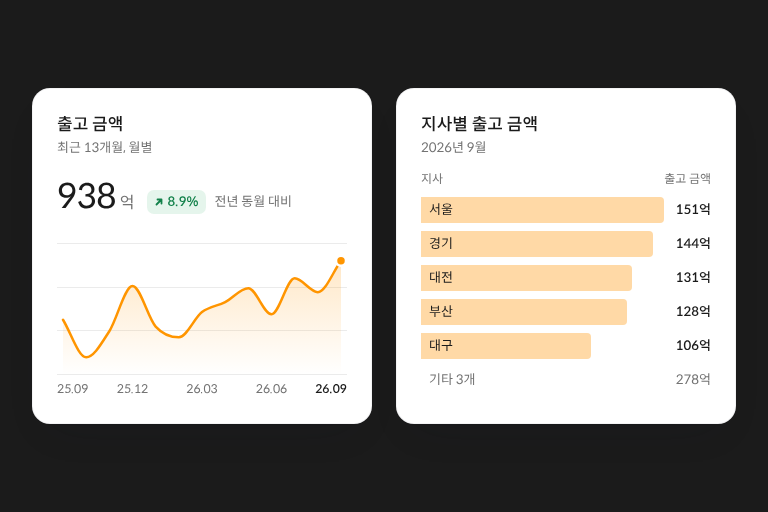
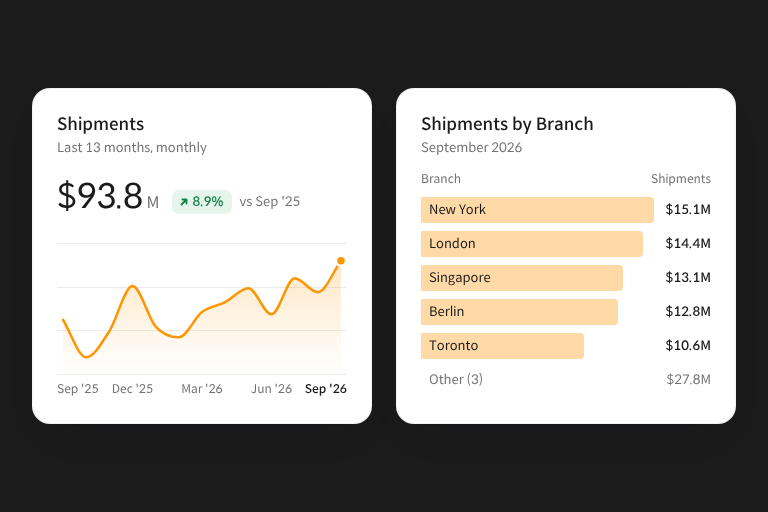
Name the home files after the domains, flip the hero gradient, new Styles panel
- www.vizney.com is English and kr.vizney.com is Korean, so the English home is
  now home.html with plain image names, and the Korean one home.kr.html with -kr
  images. home.js picks the file from data-lang (en → home.html, ko → home.kr.html).
- Hero: the top is the navigation bar's #1b1b1b and it lightens toward the
  bottom, with the accent glow rising from the bottom centre.
- Styles panel: parts that show each style, instead of three page tops: the
  Netflix Top 10, the Anthropic chart and the Notion table.
- Featured posts: the fallback lists hold only Tips & Tricks and Knowledge Base
  posts, matching the /featured/ filter now set in routes.yaml on both sites.

Claude-Session: https://claude.ai/code/session_01F12JZhiYwcuRupDYjYGtK6

diff --git a/home/home.kr.html b/home/home.kr.html
@@ -16,21 +16,21 @@
 <p class="vz-sub">Vizney가 일하는 기준은 누구나 가져다 쓸 수 있도록 공개합니다.</p>
 <div class="vz-cards">
 <a class="vz-card" href="/chart-guide/">
-<img src="https://git.vizney.com/home/img/chart-guide.png" width="768" height="512" alt="같은 두 값을 축을 90에서 자른 막대와 0에서 시작한 막대로 비교한 그림">
+<img src="https://git.vizney.com/home/img/chart-guide-kr.png" width="768" height="512" alt="같은 두 값을 축을 90에서 자른 막대와 0에서 시작한 막대로 비교한 그림">
 <span class="vz-label">기준</span>
 <span class="vz-title">Chart Guide</span>
 <span class="vz-desc">차트를 언제, 어떻게 써야 하는지에 대한 판단 기준. 예시는 태블로로 설명하지만 다른 도구에도 적용됩니다.</span>
 <span class="vz-more">차트 가이드 보기 →</span>
 </a>
 <a class="vz-card" href="https://blocks.vizney.com/ko/">
-<img src="https://git.vizney.com/home/img/blocks.png" width="768" height="512" alt="Vizney Blocks의 KPI 카드와 순위 막대 카드">
+<img src="https://git.vizney.com/home/img/blocks-kr.png" width="768" height="512" alt="Vizney Blocks의 KPI 카드와 순위 막대 카드">
 <span class="vz-label">부품</span>
 <span class="vz-title">Blocks</span>
 <span class="vz-desc">판단 기준을 코드에 담은 HTML 대시보드 카드. 복사해서 데이터만 바꾸면 계산과 강조가 기준대로 들어갑니다.</span>
 <span class="vz-more">카드 보기 →</span>
 </a>
 <a class="vz-card" href="https://styles.vizney.com/?lang=ko">
-<img src="https://git.vizney.com/home/img/styles.png" width="768" height="512" alt="Vizney Styles 카탈로그의 브랜드별 대시보드 화면 세 장">
+<img src="https://git.vizney.com/home/img/styles-kr.png" width="768" height="512" alt="Vizney Styles 샘플 세 가지의 일부: 큰 외곽선 순위 숫자가 있는 Netflix 스타일 Top 10, 아이보리 바탕의 Anthropic 스타일 라인 차트, 색 태그가 들어간 Notion 스타일 표">
 <span class="vz-label">화면</span>
 <span class="vz-title">Styles</span>
 <span class="vz-desc">기업 브랜드에 맞춘 대시보드 명세와 Tableau·Power BI 파일. 회사용 패키지는 비공개로 만들어 드립니다.</span>
@@ -47,12 +47,12 @@
 <a class="vz-more" href="/blog/">전체 글 보기 →</a>
 </div>
 <div class="vz-posts" data-featured>
-<a class="vz-post" href="/style-notion/"><span class="vz-label">Styles</span><span class="vz-post-title">Notion 대시보드 스타일 — 모노톤, 블록, 단정함</span></a>
 <a class="vz-post" href="/screenshot-vs-pdf-long-web-page-ai/"><span class="vz-label">Tips &amp; Tricks</span><span class="vz-post-title">긴 웹페이지를 AI에 넣을 때 스크린샷과 PDF 고르는 기준 (feat. Fullcut)</span></a>
 <a class="vz-post" href="/claude-privacy-settings-for-work/"><span class="vz-label">Knowledge Base</span><span class="vz-post-title">회사에서 클로드(Claude)를 쓸 때 확인할 데이터 설정</span></a>
-<a class="vz-post" href="/style-anthropic/"><span class="vz-label">Styles</span><span class="vz-post-title">Anthropic 대시보드 스타일 — 아이보리, 에디토리얼, 고요함</span></a>
 <a class="vz-post" href="/claude-dashboards-data-security/"><span class="vz-label">Knowledge Base</span><span class="vz-post-title">Claude 대시보드 보안: 회사 데이터는 어디까지 넘어갈까</span></a>
 <a class="vz-post" href="/analyzing-tableau-workbooks-with-fewer-tokens/"><span class="vz-label">Tips &amp; Tricks</span><span class="vz-post-title">태블로 워크북 분석에 드는 토큰 줄이기 (feat. Claude)</span></a>
+<a class="vz-post" href="/tableau-licensing-faq-sharing-dashboards/"><span class="vz-label">Knowledge Base</span><span class="vz-post-title">태블로 라이선스 약관으로 보는 대시보드 공유 FAQ</span></a>
+<a class="vz-post" href="/connect-tableau-cloud-mcp-to-claude/"><span class="vz-label">Knowledge Base</span><span class="vz-post-title">클로드(Claude)에 태블로 클라우드(Tableau Cloud) MCP 연동하기</span></a>
 </div>
 </div>
 </section>

diff --git a/home/home.html b/home/home.html
@@ -16,21 +16,21 @@
 <p class="vz-sub">The standards Vizney works by are open for anyone to use.</p>
 <div class="vz-cards">
 <a class="vz-card" href="/chart-guide/">
-<img src="https://git.vizney.com/home/img/chart-guide-en.png" width="768" height="512" alt="The same two values drawn as bars on an axis cut at 90 and on an axis from zero">
+<img src="https://git.vizney.com/home/img/chart-guide.png" width="768" height="512" alt="The same two values drawn as bars on an axis cut at 90 and on an axis from zero">
 <span class="vz-label">Standard</span>
 <span class="vz-title">Chart Guide</span>
 <span class="vz-desc">When and how to use each chart type. Examples use Tableau, but the principles apply to any tool.</span>
 <span class="vz-more">Read the chart guide →</span>
 </a>
 <a class="vz-card" href="https://blocks.vizney.com/">
-<img src="https://git.vizney.com/home/img/blocks-en.png" width="768" height="512" alt="A KPI card and a ranking bar card from Vizney Blocks">
+<img src="https://git.vizney.com/home/img/blocks.png" width="768" height="512" alt="A KPI card and a ranking bar card from Vizney Blocks">
 <span class="vz-label">Parts</span>
 <span class="vz-title">Blocks</span>
 <span class="vz-desc">HTML dashboard cards with the standards built into the code. Copy one, swap in your data, and the calculations and emphasis follow the standard.</span>
 <span class="vz-more">Browse the cards →</span>
 </a>
 <a class="vz-card" href="https://styles.vizney.com/">
-<img src="https://git.vizney.com/home/img/styles-en.png" width="768" height="512" alt="Three brand dashboard screens from the Vizney Styles catalog">
+<img src="https://git.vizney.com/home/img/styles.png" width="768" height="512" alt="Parts of three Vizney Styles samples: the Netflix style Top 10 with large outlined ranks, the Anthropic style line chart on ivory, and the Notion style table with colored tags">
 <span class="vz-label">Screens</span>
 <span class="vz-title">Styles</span>
 <span class="vz-desc">Dashboard specs and Tableau and Power BI files matched to a company's brand. Packages for your company are built privately.</span>
@@ -47,12 +47,12 @@
 <a class="vz-more" href="/blog/">All posts →</a>
 </div>
 <div class="vz-posts" data-featured>
-<a class="vz-post" href="/style-netflix/"><span class="vz-label">Styles</span><span class="vz-post-title">Netflix Dashboard Style — Dark, Cinematic, Bold</span></a>
-<a class="vz-post" href="/style-notion/"><span class="vz-label">Styles</span><span class="vz-post-title">Notion Dashboard Style — Monochrome, Blocks, Tidy</span></a>
 <a class="vz-post" href="/screenshot-vs-pdf-long-web-page-ai/"><span class="vz-label">Tips &amp; Tricks</span><span class="vz-post-title">Screenshot or PDF? How to Feed a Long Web Page to AI (feat. Fullcut)</span></a>
 <a class="vz-post" href="/claude-privacy-settings-for-work/"><span class="vz-label">Knowledge Base</span><span class="vz-post-title">Using Claude at Work: Data Settings to Check on a Personal Plan</span></a>
-<a class="vz-post" href="/style-anthropic/"><span class="vz-label">Styles</span><span class="vz-post-title">Anthropic Dashboard Style — Ivory, Editorial, Quiet</span></a>
 <a class="vz-post" href="/claude-dashboards-data-security/"><span class="vz-label">Knowledge Base</span><span class="vz-post-title">Claude Dashboards Data Security: What Reaches Anthropic vs. Chat and MCP</span></a>
+<a class="vz-post" href="/analyzing-tableau-workbooks-with-fewer-tokens/"><span class="vz-label">Tips &amp; Tricks</span><span class="vz-post-title">Analyzing Tableau Workbooks with Fewer Tokens (feat. Claude)</span></a>
+<a class="vz-post" href="/connect-tableau-cloud-mcp-to-claude/"><span class="vz-label">Knowledge Base</span><span class="vz-post-title">How to Connect Claude to Tableau Cloud</span></a>
+<a class="vz-post" href="/cleaning-up-calculation-names-across-workbooks/"><span class="vz-label">Tips &amp; Tricks</span><span class="vz-post-title">Cleaning Up Calculation Names Across Workbooks (feat. Claude)</span></a>
 </div>
 </div>
 </section>

diff --git a/home/home.js b/home/home.js
@@ -1,20 +1,20 @@
-/* Vizney blog home (kr.vizney.com, www.vizney.com).
-   The Ghost "Home" page holds only <div id="vizney-home" data-lang="ko"> and this script.
-   It loads home.<lang>.html from git.vizney.com into that div, then fills the featured list
-   from the blog's /featured/rss/ (posts marked Featured in Ghost). If the feed cannot be read,
-   the six posts written in home.<lang>.html stay as they are. */
+/* Vizney blog home. www.vizney.com is English and kr.vizney.com is Korean, and the files follow the
+   same pattern: home.html is the English home, home.kr.html the Korean one.
+   The Ghost "Home" page holds only <div id="vizney-home" data-lang="en|ko"> and this script.
+   It loads the matching file from git.vizney.com into that div, then fills the featured list from
+   the blog's /featured/rss/ (Featured posts whose primary tag is Tips & Tricks or Knowledge Base,
+   as set in routes.yaml). If the feed cannot be read, the six posts written in the file stay. */
 (function () {
   var root = document.getElementById('vizney-home');
   if (!root || !window.fetch) return;
 
   var base = 'https://git.vizney.com/home/';
-  var lang = root.getAttribute('data-lang') === 'en' ? 'en' : 'ko';
-  var fallback = {
-    ko: '<p class="vz-fallback"><a href="/blog/">전체 글 보기</a> · <a href="/contact-us/">작업 문의</a></p>',
-    en: '<p class="vz-fallback"><a href="/blog/">All posts</a> · <a href="/contact-us/">Contact</a></p>'
-  };
+  var kr = /^(ko|kr)$/.test(root.getAttribute('data-lang') || '');
+  var fallback = kr
+    ? '<p class="vz-fallback"><a href="/blog/">전체 글 보기</a> · <a href="/contact-us/">작업 문의</a></p>'
+    : '<p class="vz-fallback"><a href="/blog/">All posts</a> · <a href="/contact-us/">Contact</a></p>';
 
-  fetch(base + 'home.' + lang + '.html', { cache: 'no-cache' })
+  fetch(base + (kr ? 'home.kr.html' : 'home.html'), { cache: 'no-cache' })
     .then(function (r) { return r.ok ? r.text() : Promise.reject(r.status); })
     .then(function (html) {
       root.innerHTML = html;
@@ -26,7 +26,7 @@
       fillFeatured(root.querySelector('[data-featured]'));
     })
     .catch(function () {
-      root.innerHTML = fallback[lang];
+      root.innerHTML = fallback;
       root.setAttribute('data-ready', '');
     });
 

diff --git a/home/home.css b/home/home.css
@@ -9,7 +9,7 @@
 .site-footer { margin-top: 0 !important; }
 .gh-content > #vizney-home { grid-column: 1 / -1; margin: 0 !important; max-width: none; }
 
-/* While home.ko.html loads, hold the hero's space so the footer does not jump */
+/* While home.html or home.kr.html loads, hold the hero's space so the footer does not jump */
 #vizney-home:not([data-ready]) { min-height: 560px; background: #1b1b1b; }
 
 #vizney-home { color: #1b1b1b; font-size: 16px; line-height: 1.7; word-break: keep-all; }
@@ -28,12 +28,12 @@
 #vizney-home .vz-desc { display: block; font-size: 16px; line-height: 1.7; color: #4a4a4a; }
 #vizney-home .vz-more { font-size: 15px; font-weight: 700; }
 
-/* Hero: one soft accent glow from the bottom, a little light at the top right */
+/* Hero: the top is the navigation bar's #1b1b1b, so the two read as one; it lightens toward the bottom,
+   with one soft accent glow rising from the bottom centre */
 #vizney-home .vz-hero {
   background:
-    radial-gradient(ellipse 60% 85% at 50% 125%, rgba(255, 204, 0, 0.2) 0%, rgba(255, 204, 0, 0) 70%),
-    radial-gradient(ellipse 45% 60% at 85% -10%, #3a3a3a 0%, rgba(27, 27, 27, 0) 70%),
-    #1b1b1b;
+    radial-gradient(ellipse 70% 90% at 50% 130%, rgba(255, 204, 0, 0.24) 0%, rgba(255, 204, 0, 0) 70%),
+    linear-gradient(180deg, #1b1b1b 0%, #1b1b1b 25%, #353535 100%);
   color: #ffffff; padding: 96px 20px 112px; text-align: center;
 }
 #vizney-home .vz-hero-in { max-width: 760px; margin: 0 auto; }

diff --git a/home/README.md b/home/README.md
@@ -1,27 +1,28 @@
 # Vizney blog home
 
-The home screen of the Vizney blog: kr.vizney.com in Korean and www.vizney.com in English. The content lives here, not in Ghost,
-so it can be changed with a commit instead of editing the Ghost page.
+The home screen of the Vizney blog. The file names follow the domains: www.vizney.com is English and uses the plain
+names, kr.vizney.com is Korean and adds `kr`. The content lives here, not in Ghost, so it can be changed with a commit
+instead of editing the Ghost page.
 
 | File | Contents |
 |---|---|
-| `home.ko.html` | Korean home content (hero, open standards, featured posts, services, contact band) |
-| `home.en.html` | English home content, same structure and classes as `home.ko.html` |
-| `home.css` | Styles, scoped to `#vizney-home`, plus the rules that remove the Ghost page title and padding. Shared by both languages |
-| `home.js` | Loads `home.<lang>.html` into the Ghost page, then fills the featured list from `/featured/rss/` |
-| `img/` | Images used by the home content. English versions of the card images end in `-en` |
+| `home.html` | English home for www.vizney.com (hero, open standards, featured posts, services, contact band) |
+| `home.kr.html` | Korean home for kr.vizney.com, same structure and classes as `home.html` |
+| `home.css` | Styles, scoped to `#vizney-home`, plus the rules that remove the Ghost page title and padding. Shared by both sites |
+| `home.js` | Loads `home.html` or `home.kr.html` into the Ghost page, then fills the featured list from `/featured/rss/` |
+| `img/` | Images used by the home content. English images use the plain name (`styles.png`), Korean ones add `-kr` (`styles-kr.png`) |
 
-These paths are public: the Ghost page loads them by URL. Do not move or rename them.
+These paths are public: the Ghost pages load them by URL. Do not move or rename them without changing `home.js` and both Ghost pages.
 
 When you change one language, make the same change in the other file so the two homes keep the same structure.
 
 ## How Ghost uses it
 
-On each site, a Ghost page with the slug `home` holds one HTML card and nothing else. kr.vizney.com uses `data-lang="ko"`, www.vizney.com uses `data-lang="en"`:
+On each site, a Ghost page with the slug `home` holds one HTML card and nothing else. www.vizney.com uses `data-lang="en"`, kr.vizney.com uses `data-lang="ko"`:
 
 ```html
 <link rel="stylesheet" href="https://git.vizney.com/home/home.css">
-<div id="vizney-home" data-lang="ko"></div>
+<div id="vizney-home" data-lang="en"></div>
 <script src="https://git.vizney.com/home/home.js" defer></script>
 ```
 
@@ -37,10 +38,10 @@ routes:
     filter: tag:-hash
   /featured/:
     controller: channel
-    filter: featured:true
+    filter: 'featured:true+primary_tag:[tips,kb]'
 ```
 
-- `/blog/` is the full post list that "전체 글 보기" and "All posts" open.
-- `/featured/` lists posts marked Featured in Ghost; `home.js` reads its RSS for the featured section and shows the six newest. To change the featured posts, change the Featured flags in Ghost. If the feed cannot be read, the six posts written in `home.<lang>.html` are shown.
+- `/blog/` is the full post list that "All posts" and "전체 글 보기" open.
+- `/featured/` lists the posts marked Featured whose primary tag is Tips & Tricks (`tips`) or Knowledge Base (`kb`). `home.js` reads its RSS and shows the six newest. To change the featured posts, change the Featured flags in Ghost; to change which kinds of posts appear, change this filter on both sites. If the feed cannot be read, the six posts written in the HTML file are shown.
 
 GitHub Pages caches files for about 10 minutes, so a change shows up on the blog within that time.
